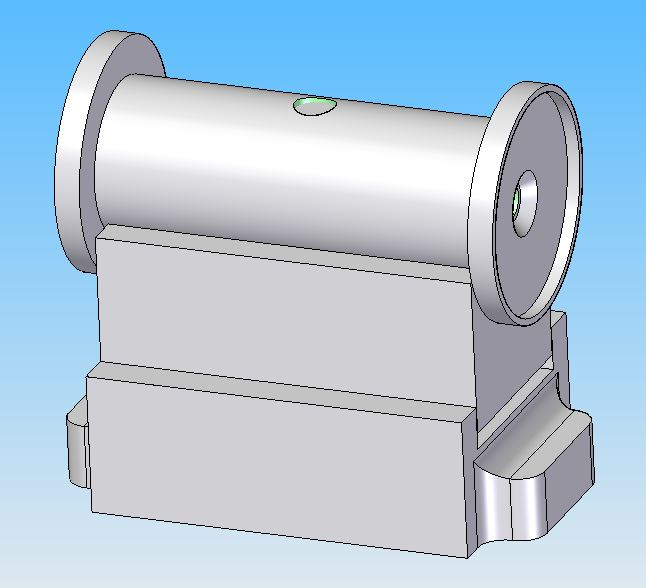
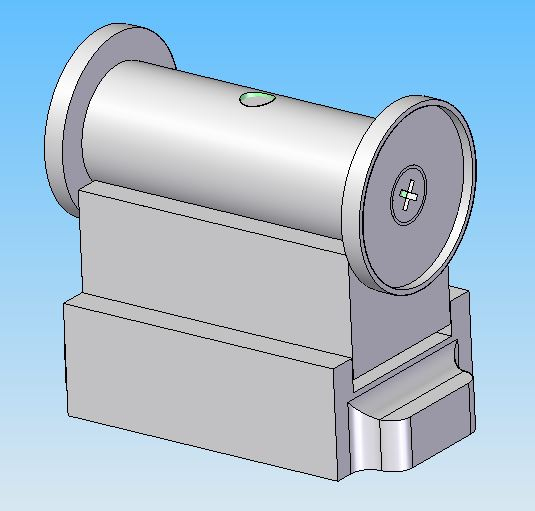
afe

Changed region(s): [[0.0598, 0.0294, 0.9271, 0.9687]]

diff --git a/docs/source/Machine/Machine.rst b/docs/source/Machine/Machine.rst
@@ -50,27 +50,57 @@ Quantity : 1x
 Idler Pulley Long Screw
 -----------------------
 
+  .. image:: figures/Idler_Pulley_Long_Screw_Exploded-Machine-DIY-LM42P.JPG
+    :width: 500
+    :align: center
+
 Listing Parts
 '''''''''''''
 
-- Nuts M8 Stop
+1) Long Screw M8
+  
+  - Quantity : 2x
+    
+2) Washer 8 x 12 x 1.5
+
+  - Quantity : 4x
+  - Material : aluminium
+    
+  .. image:: figures/Washer_8x12x1_5-Machine-DIY-LM42P.PNG
+    :width: 300
+    :align: center
+
+7) Nuts M8 Stop
 
   - Quantity : 2x
   - Material : stainless
 
-.. image:: figures/Nuts_M8_Stop-Machine-DIY-LM42P.JPG
+  .. image:: figures/Nuts_M8_Stop-Machine-DIY-LM42P.JPG
     :width: 180
     :align: center
-
-- Screw M8
-  
-  - Quantity : 2x
 
 Idler Pulley Short Screw
 ------------------------
 
+  .. image:: figures/Idler_Pulley_Short_Screw_Exploded-Machine-DIY-LM42P.JPG
+    :width: 500
+    :align: center
+
 Listing Parts
-'''''''''''''    
+'''''''''''''
+
+1) Short Screw M8
+  
+  - Quantity : 2x
+    
+2) Washer 8 x 12 x 1.5
+
+  - Quantity : 4x
+  - Material : aluminium
+    
+  .. image:: figures/Washer_8x12x1_5-Machine-DIY-LM42P.PNG
+    :width: 300
+    :align: center
 
 Belt Joint
 ----------
@@ -106,7 +136,7 @@ Listing Parts
   - Material : Aluminium
 
 .. image:: figures/Spacer_Metal_Disc.PNG
-    :width: 400
+    :width: 450
     :align: center	    
 	    
 4. Metal Disc
@@ -127,6 +157,24 @@ Listing Parts
 .. image:: figures/Phillips_Head_Screw_M3x10.JPG
     :width: 180
     :align: center
+
+6. Washer M6 x 6.4 x 18 x 1.6
+
+  - Quantity : 1x
+  - Material : steel
+
+.. image:: figures/Washer_M6x6_4x18x1_6-Machine-DIY-LM42P.JPG
+    :width: 180
+    :align: center	    
+       
+7. Screw Pan Head Slot M4 x 40
+
+  - Quantity : 1x
+  - Material : steel
+
+.. image:: figures/Screw_Pan_Head_Slot_M4x40-Machine-DIY-LM42P.JPG
+    :width: 180
+    :align: center	    
 
 Static Parts
 ^^^^^^^^^^^^
